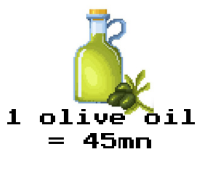
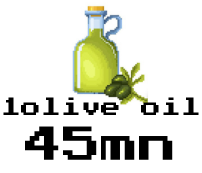
all imgs are now good

Changed region(s): [[0.0, 0.0289, 1.0, 0.9249], [0.4752, 0.289, 0.505, 0.3179]]

diff --git a/src/renderer/src/App.jsx b/src/renderer/src/App.jsx
@@ -23,13 +23,14 @@ function App() {
                   <Link to={`/timer/${times[i]}`} key={i}>
                     <div
                       className="w-[140px] h-[120px] bg-cover bg-center rounded-lg border-2 border-black"
-                      style={{ backgroundImage: `url(${bg})` }}
+                      style={{ backgroundImage: `url(${bg})`, fontFamily: 'PressStart2P, sans-serif' }}
                     />
                   </Link>
                 ))}
               </div>
               <div
-                className="w-full text-xs text-right text-black mt-1 pr-3 font-press" 
+                className="w-full text-xs transform scale-75 text-right text-black mt-1 pr-3"
+                style={{ fontFamily: 'PressStart2P, sans-serif' }}
               >
                 made by @M with love
               </div>

diff --git a/src/renderer/src/assets/main.css b/src/renderer/src/assets/main.css
@@ -2,9 +2,7 @@
 
 @font-face {
   font-family: 'PressStart2P';
-  src: url('src/assets/fonts/PressStart2P-Regular.ttf') format('truetype');
-  font-weight: normal;
-  font-style: normal;
+  src: url('./fonts/PressStart2P-Regular.ttf') format('truetype');
 }
 
 .timer-container {

diff --git a/tailwind.config.js b/tailwind.config.js
@@ -6,7 +6,7 @@ module.exports = {
     theme: {
       extend: {
         fontFamily: {
-          press: ['"PressStart2P-Regular"', 'sans-serif'], // Ensure the font name is properly quoted
+          press: ['PressStart2P', 'sans-serif'],
         },
       },
     },

diff --git a/src/renderer/src/Timer.jsx b/src/renderer/src/Timer.jsx
@@ -73,6 +73,7 @@ function Timer() {
     backgroundImage: `url(${backgroundImage})`,
     backgroundSize: 'cover',
     backgroundPosition: 'center',
+    fontFamily: 'PressStart2P, sans-serif',
   };
 
   return (
